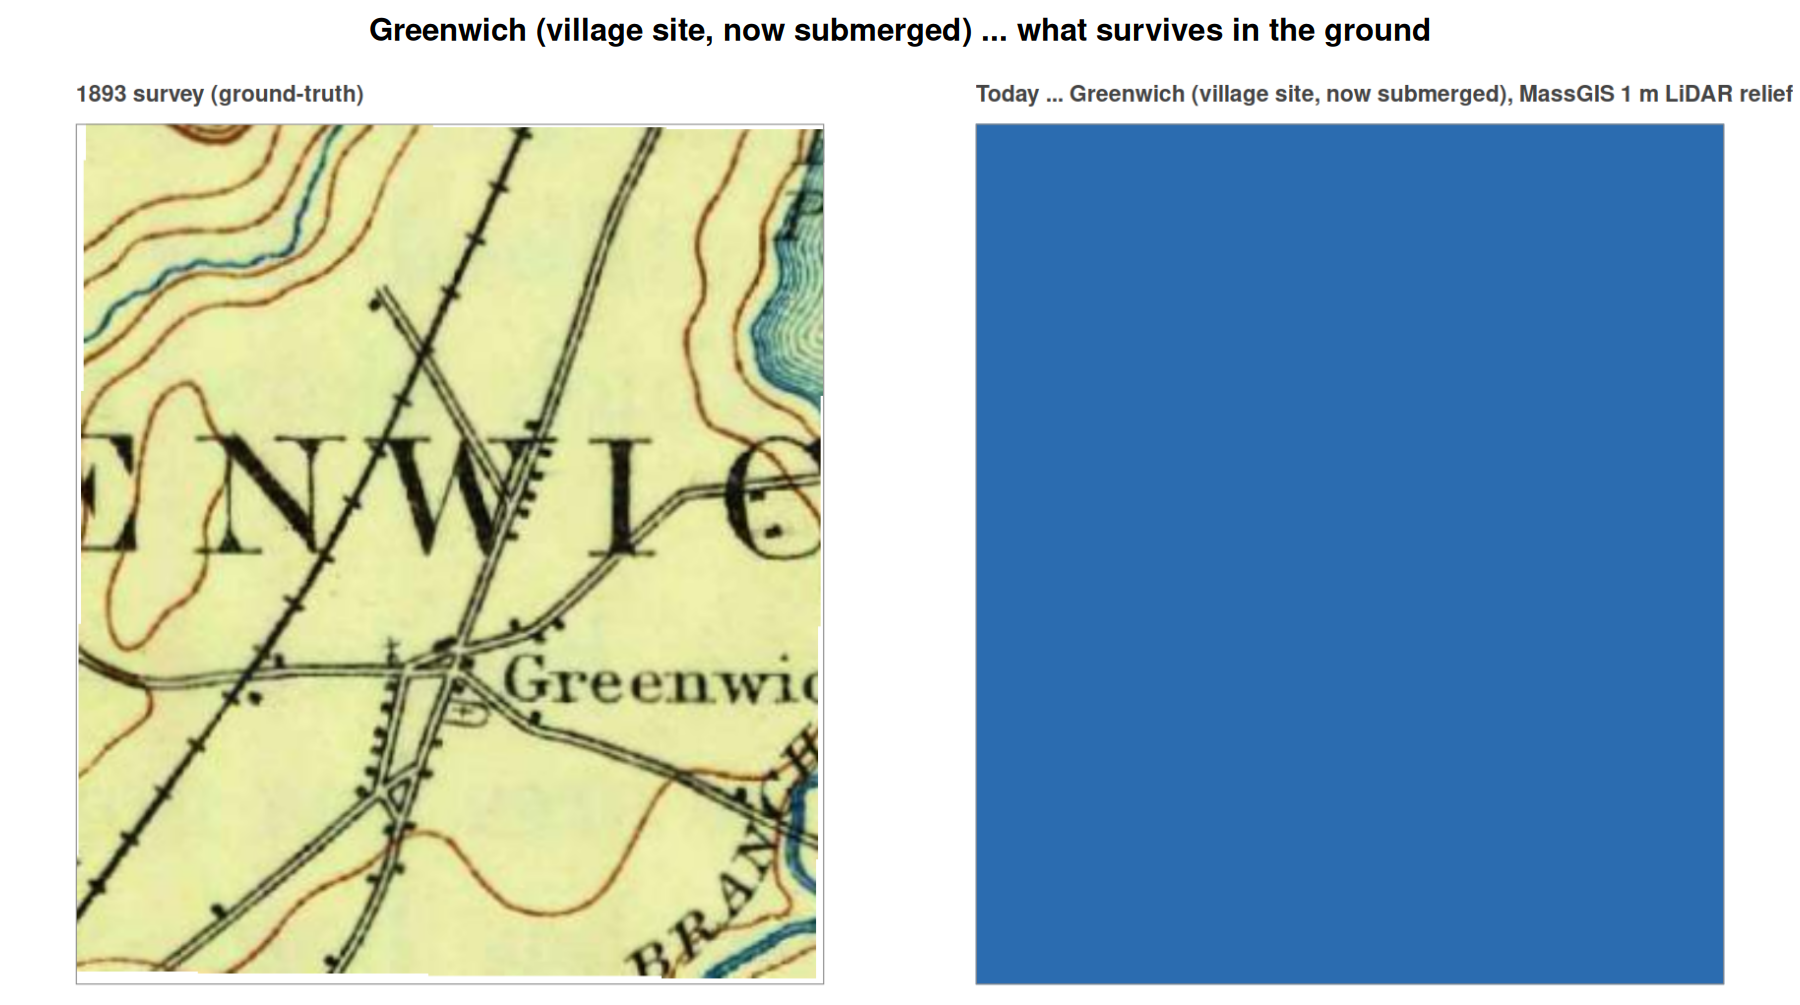
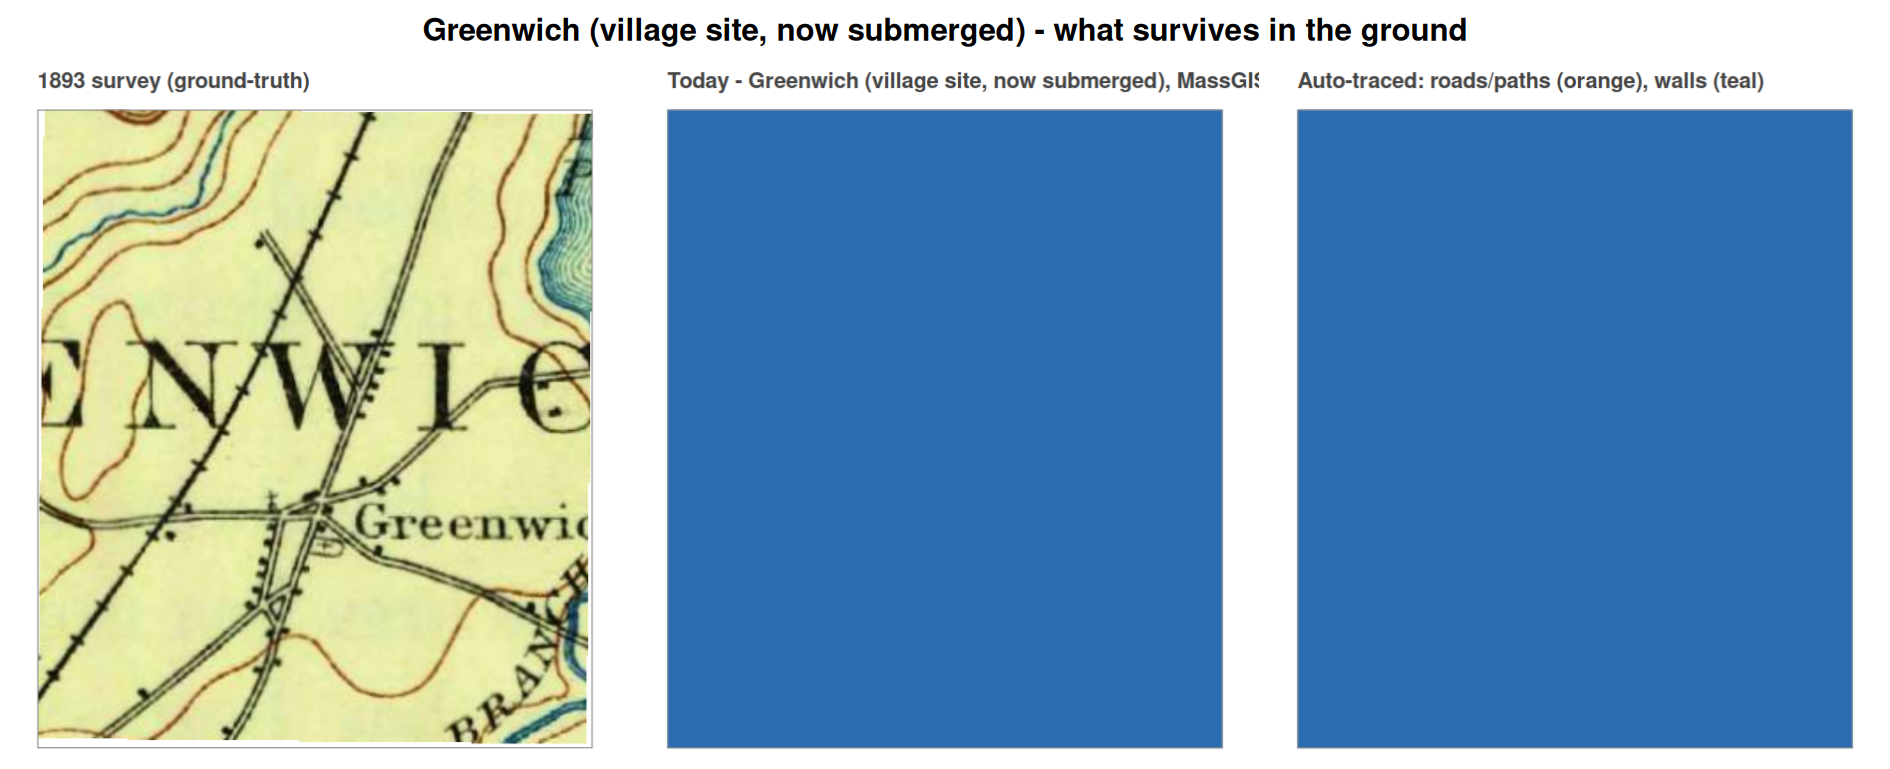
Cover the whole Prescott Peninsula in the imprint survey + explorer
Extends the imprint survey from a single north window to the full ~12 km
peninsula, and consolidates the stage.

- 14_imprints.R: the Prescott Peninsula exceeds the MassGIS single-export cap,
  so fetch it as three ~2 m strips, resample onto one EPSG:26986 template, and
  mosaic into a single DEM (thin seams filled). The explorer's "Prescott
  Peninsula" overlay and its survey figure now span the whole landmass.
- Cache-guarded: the stage skips any area whose 24_*_survey.png already exists,
  so only the first build pays the multi-minute render cost; later run_all runs
  stay fast. MassGIS 500s are intermittent, so the tile fetch now retries 6x.
- Survey figures are now 3-panel (1893 | relief | auto-traced) for all areas;
  manifest assembled from per-area bounds sidecars (git-ignored).
- README + quabbin.html updated (peninsula mosaic, cache-guard, runtime note).

https://claude.ai/code/session_01LW6E2d5MQBKrYZ8uaKzdrH

diff --git a/README.md b/README.md
@@ -33,7 +33,7 @@ present-day map in which their land has been absorbed by the surrounding towns.
 | 14 | `14_dana_lidar.png` | Dana Common in 1 m LiDAR (surviving town site) | USGS 3DEP LiDAR |
 | 15 | `15_prescott_lidar.png` | The Prescott Peninsula in 1 m LiDAR | USGS 3DEP LiDAR |
 | 16 | `16_roads.png` | The valley's 1893 road network, with the reservoir overlaid | 1893 USGS quad |
-| 17 | `24_prescott_survey.png` | Prescott Peninsula: the 1893 survey vs. the LiDAR imprints surviving today | MassGIS 1 m LiDAR + 1893 quad |
+| 17 | `24_prescott_survey.png` | The whole Prescott Peninsula: 1893 survey vs. the LiDAR imprints surviving today | MassGIS LiDAR (3-tile mosaic) + 1893 quad |
 | 18 | `24_enfield_survey.png` | Enfield (Winsor Dam): surviving roads on the dry south vs. the drowned center | MassGIS 1 m LiDAR + 1893 quad |
 | 19 | `24_dana_survey.png` | Dana Common: the surviving common/ridge vs. the drowned village | MassGIS 1 m LiDAR + 1893 quad |
 | 20 | `24_greenwich_survey.png` | Greenwich: the 1893 village vs. its site, now entirely under water | MassGIS 1 m LiDAR + 1893 quad |
@@ -65,9 +65,13 @@ Rscript quabbin/run_all.R
 ```
 
 Downloads are cached under `quabbin/data/cache/` (git-ignored), so the first
-run takes a few minutes and every run after that is ~90 seconds. The twenty
-figures and the GIF land in `quabbin/output/`; the web-map GeoJSON, the 1893
-overlay, and the LiDAR imprint overlays land in `quabbin/map/data/`. (The GIF needs
+run takes a few minutes and every run after that is ~90 seconds — except the
+imprint survey (stage 14), which mosaics the Prescott Peninsula and is
+cache-guarded: its first build takes several minutes, then later runs skip any
+area whose `output/24_*_survey.png` already exists (delete one to force a
+rebuild). The twenty figures and the GIF land in `quabbin/output/`; the web-map
+GeoJSON, the 1893 overlay, and the LiDAR imprint overlays land in
+`quabbin/map/data/`. (The GIF needs
 ImageMagick — `apt-get install imagemagick`; without it the pipeline still
 produces the panel `09`.)
 
@@ -194,8 +198,12 @@ never breaks the run — it degrades to a documented fallback instead.
   well documented (J.R. Greene's *Atlas of the Quabbin Valley*; the Swift River Valley
   Historical Society) and LiDAR for New England relict landscapes is proven (UConn's
   Ouimet Lab; Johnson & Ouimet 2014), but not combined into a LiDAR imprint survey of
-  the four towns. Exported as static survey figures (`output/24_*`) and as web overlays
-  (relief + traces, transparent over water) with bounds in `map/data/imprints.json`.
+  the four towns. The Prescott Peninsula runs ~12 km — beyond the server's single-export
+  cap — so it is mosaicked from three ~2 m strips into one DEM for full-length coverage;
+  the stage is cache-guarded (skips any area whose survey figure already exists), so only
+  the first build pays the render cost. Exported as static survey figures (`output/24_*`)
+  and as web overlays (relief + traces, transparent over water) with bounds in
+  `map/data/imprints.json`.
 - **Interactive imprint explorer** — Leaflet (vendored locally, no CDN dependency),
   rebuilt mobile-first: a full-screen map, bottom-sheet **Layers** control, big touch
   targets, and a full-width pool slider. It serves the imprint relief + trace overlays
